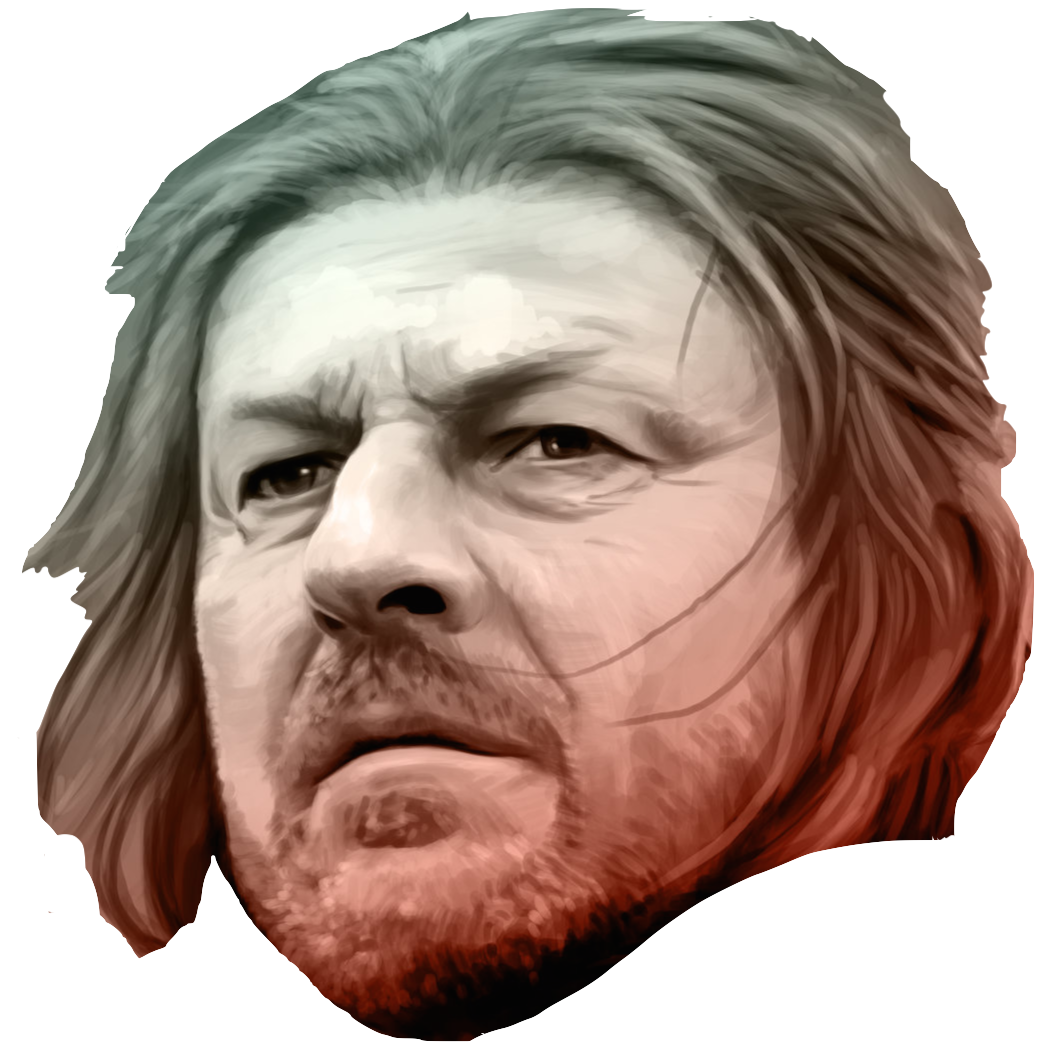
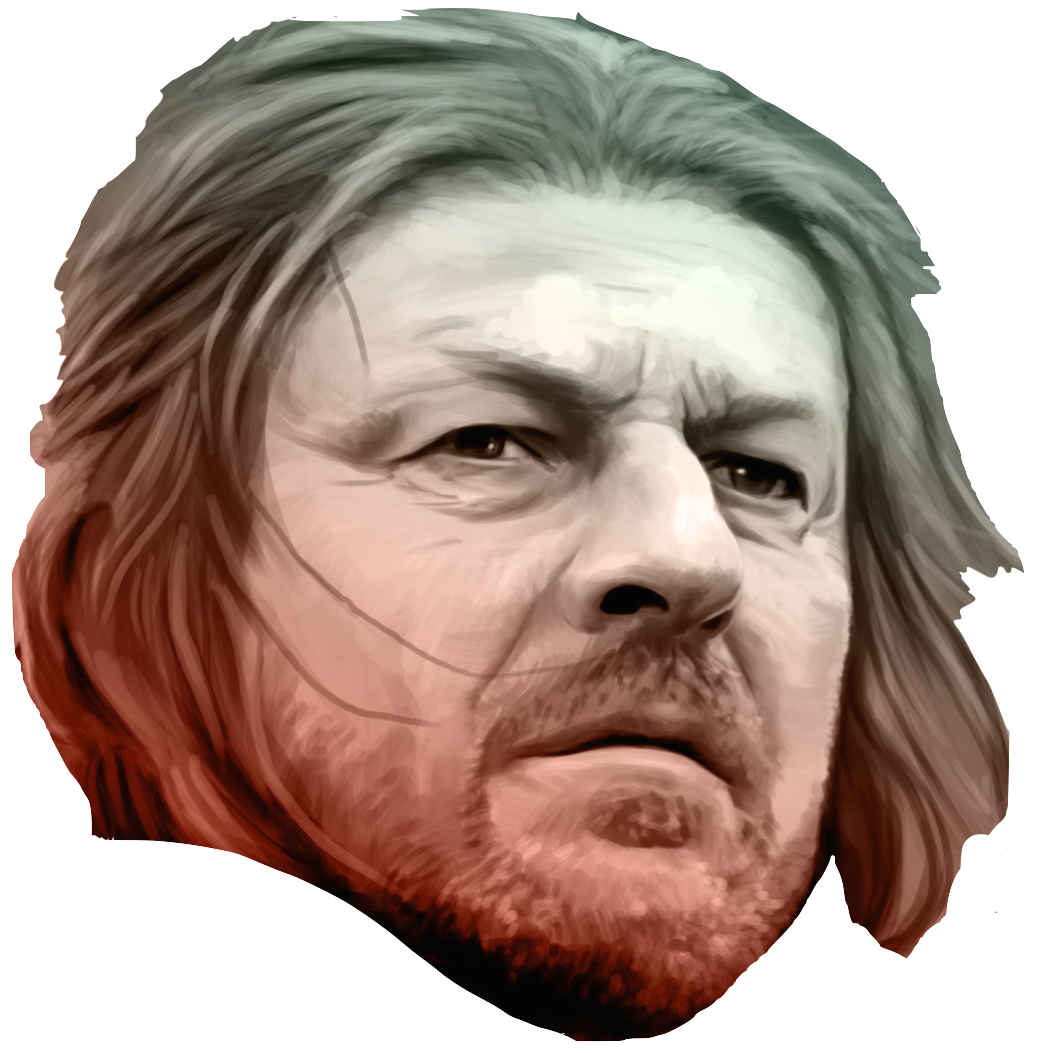
wing done

diff --git a/app/scripts/player.js b/app/scripts/player.js
@@ -30,15 +30,18 @@ window.Player = (function() {
         if(Controls.keys.mousedown || Controls.keys.touchstart || Controls.keys.space) {
             //this.pos.y -= 3;
             document.getElementById('Flapp').play();
+            $('.Wing').css('transform-origin', 'bottom right');
+            $('.Wing').css('transform', 'translateZ(0) rotate(-35deg)');
             this.pos.y -= delta * SPEED + 1.5;
         }
         else {
             //this.pos.y += delta + 0.5;
+            $('.Wing').css('transform', 'translateZ(0) rotate(0)');
             this.pos.y += delta * SPEED;
         }
 
 		// Update UI
-		this.el.css('transform', 'translate(' + this.pos.x + 'em, ' + this.pos.y + 'em)');
+		this.el.css('transform', 'translate3d(' + this.pos.x + 'em, ' + this.pos.y + 'em, 0em)');
 
         this.checkCollisionWithBounds();
 

diff --git a/app/index.html b/app/index.html
@@ -27,7 +27,9 @@
         <div class="GameCanvas">
             <div class="Foreground"></div>
             <div class="Background"></div>
-            <div class="Player"></div>
+            <div class="Player">
+                <div class="Wing"></div>
+            </div>
             <div class="Pipe PipeUp1"></div>
             <div class="Pipe PipeDown1"></div>
             <div class="Pipe PipeUp2"></div>

diff --git a/app/styles/_wing.scss b/app/styles/_wing.scss
@@ -1,0 +1,9 @@
+.Wing {
+    top: em(-55px);
+    left: em(-40px);
+    height: em(100px);
+    position: relative;
+    background-image: url(../images/wing.png);
+    //transform: translate3d(0, 0, 0);
+    background-size: 100% 100%;
+}

diff --git a/app/styles/_player.scss b/app/styles/_player.scss
@@ -8,5 +8,7 @@
     width: em(50px);
     height: em(50px);
     z-index: 200;
-    background: blue;
+    background-image: url(../images/ned.png);
+    background-size: 100% 100%;
+    transform: translate3d(0, 0, 0);
 }

diff --git a/app/styles/main.scss b/app/styles/main.scss
@@ -16,3 +16,4 @@ body {
 @import '_pipe';
 @import '_scoreboard';
 @import '_mute';
+@import '_wing';
